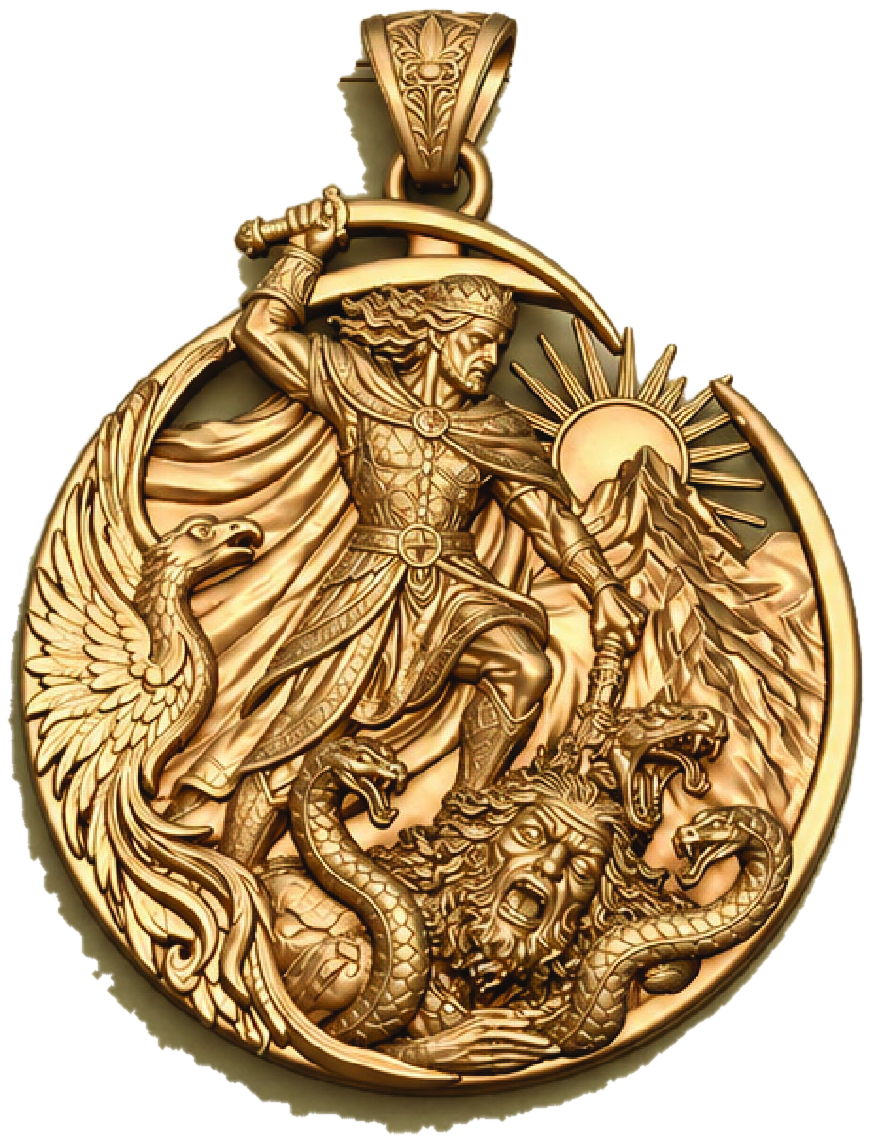
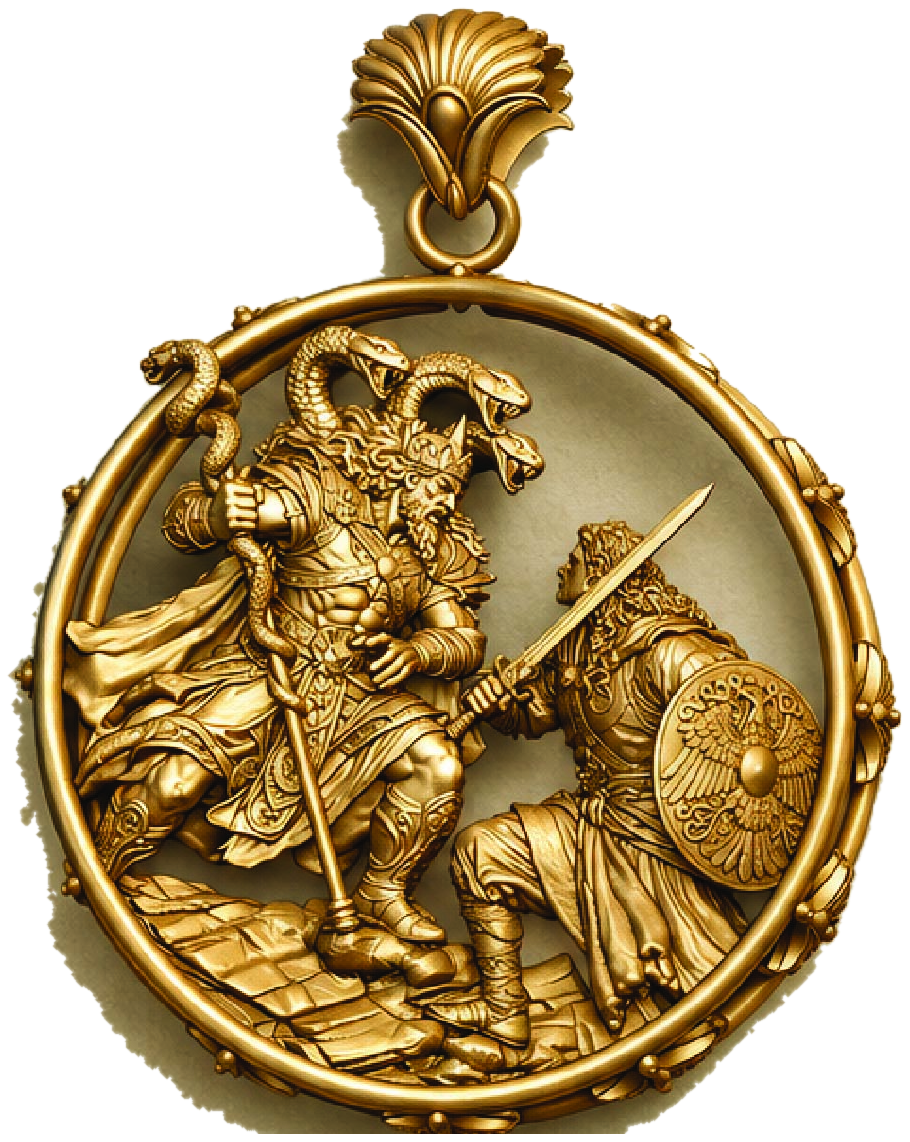
Brochure: swap نبرد / پیروزی names to match the pieces

diff --git a/brochure/content.js b/brochure/content.js
@@ -32,21 +32,21 @@ window.BROCHURE = {
     },
     {
       n: "۲",
-      name: "پیروزی",
-      latin: "PIROUZI",
-      image: "img/piroozi.png",
+      name: "نبرد",
+      latin: "NABARD",
+      image: "img/nabard.png",
       story: "درفش کاویان",
-      text: "هزار سال ضحاک ماردوش بر ایران فرمان راند و هر روز جوانانی خوراک مارهای شانهاش میشدند. تا آنکه کاوهی آهنگر، که پسرانش را یکی پس از دیگری به این بیداد باخته بود، در بازار خروشید و چرم آهنگریاش را بر سر نیزه کرد. آن چرم ساده درفش کاویانی شد و مردم زیر آن گرد آمدند تا فریدون به نبرد ضحاک برخیزد. «پیروزی» لحظهی رویارویی را در طلا نگه داشته است.",
+      text: "هزار سال ضحاک ماردوش بر ایران فرمان راند و هر روز جوانانی خوراک مارهای شانهاش میشدند. تا آنکه کاوهی آهنگر، که پسرانش را یکی پس از دیگری به این بیداد باخته بود، در بازار خروشید و چرم آهنگریاش را بر سر نیزه کرد. آن چرم ساده درفش کاویانی شد و مردم زیر آن گرد آمدند تا فریدون به نبرد ضحاک برخیزد. «نبرد» لحظهی رویارویی را در طلا نگه داشته است.",
       verse: ["همان کاوه آن بر سر نیزه کرد", "همانگه ز بازار برخاست گرد"],
       specs: ["گردنبند", "طلای زرد", "عیار ۱۸"]
     },
     {
       n: "۳",
-      name: "نبرد",
-      latin: "NABARD",
-      image: "img/nabard.png",
+      name: "پیروزی",
+      latin: "PIROUZI",
+      image: "img/piroozi.png",
       story: "فریدون و کوه دماوند",
-      text: "فریدون با گرز گاوسر به کاخ ضحاک میتازد و بساط هزارسالهی بیداد را درهم میشکند. به فرمان سروش، ضحاک را نمیکُشد؛ او را به کوه دماوند میبرد و در دل کوه به بند میکشد تا تاریکی برای همیشه همانجا بماند. «نبرد» این لحظه را روایت میکند: پهلوانی با تیغ برافراشته، مارهایی که به زیر افتادهاند و طلوعی که از پس دماوند سر برمیآورد.",
+      text: "فریدون با گرز گاوسر به کاخ ضحاک میتازد و بساط هزارسالهی بیداد را درهم میشکند. به فرمان سروش، ضحاک را نمیکُشد؛ او را به کوه دماوند میبرد و در دل کوه به بند میکشد تا تاریکی برای همیشه همانجا بماند. «پیروزی» این لحظه را روایت میکند: پهلوانی با تیغ برافراشته، مارهایی که به زیر افتادهاند و طلوعی که از پس دماوند سر برمیآورد.",
       verse: ["بیاورد ضحاک را چون نوند", "به کوه دماوند کردش به بند"],
       specs: ["گردنبند", "طلای زرد", "عیار ۱۸"]
     }
